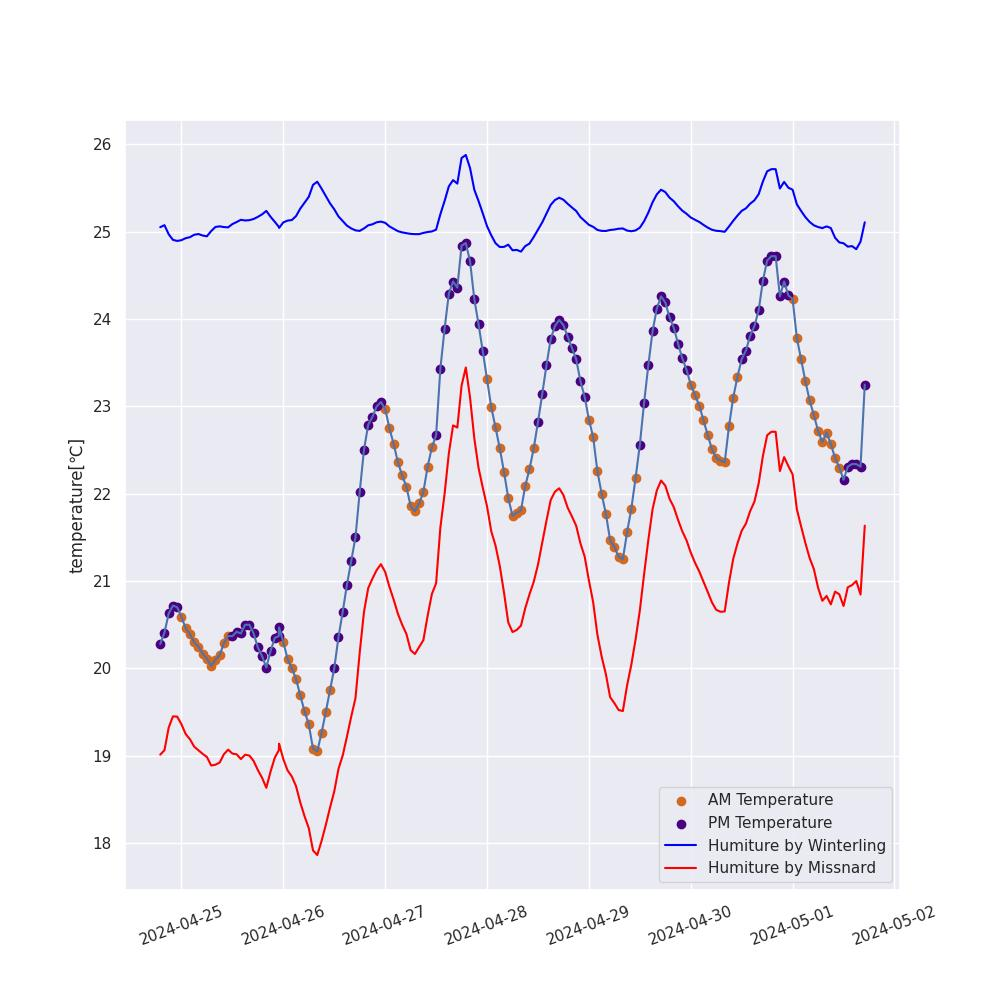
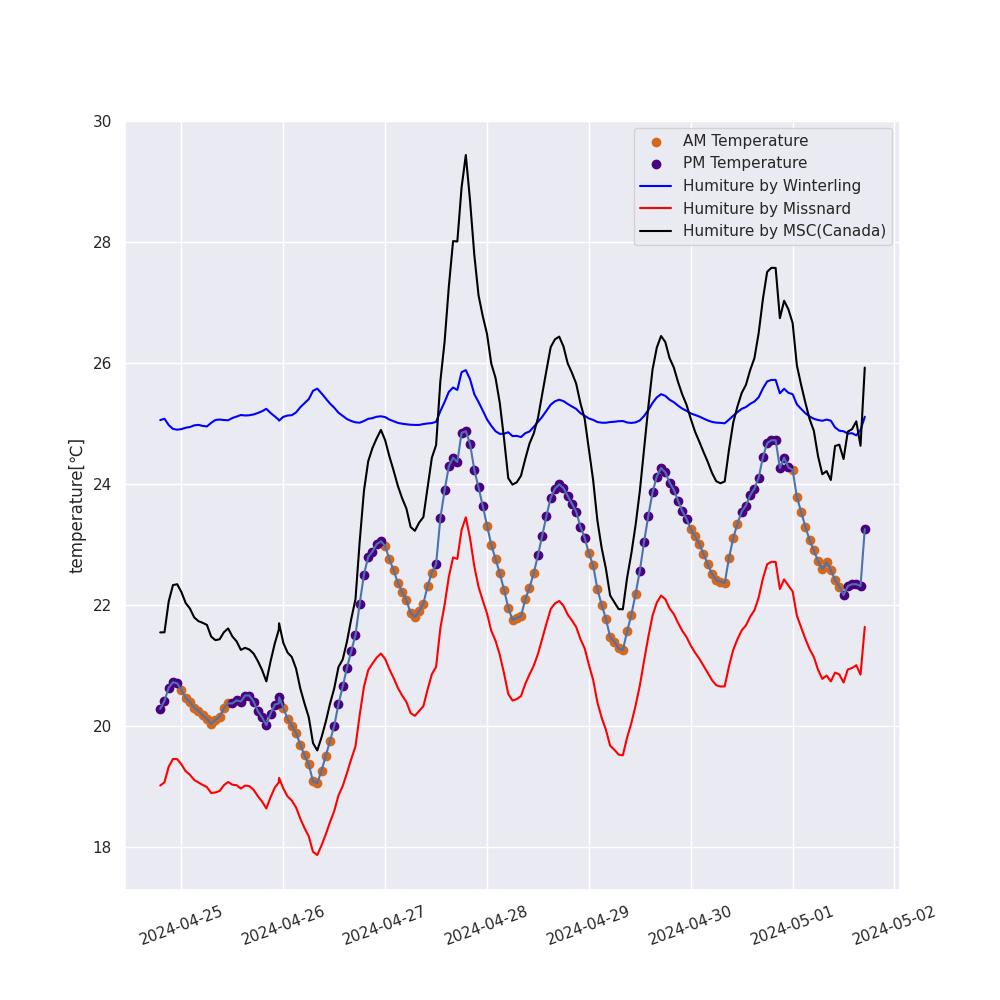
Update: 2024-05-01 17:18:35

diff --git a/create_plot.py b/create_plot.py
@@ -36,6 +36,26 @@ def calc_winterling_index(T, H):
 		- 0.00000199 * T**2 * H**2)
 	return HI
 
+def calc_dew_point(T, RH):
+	# 露点温度の算出
+	b = 17.62
+	c = 243.12
+	gamma = (b * T / (c + T)) + np.log(RH / 100.0)
+	T_dew = (c * gamma) / (b - gamma)
+	return T_dew
+
+def calc_saturation_vapor_pressure(T_dew):
+	# 露点温度を引数にして水蒸気圧を算出
+	e = 6.1078 * 10 ** (7.5 * T_dew /(237.3 + T_dew))
+	return e
+
+def calc_humidex(T, e):
+	# カナダ気象局(MSC)
+	humidex = T + 0.5555 * (e - 10)
+	#humidex = np.floor(humidex)
+	#humidex = humidex.astype(int)
+	return humidex
+
 def fetch_recent_data(db_path, table_name, column_name):
 	
 	# SQLiteデータベースに接続
@@ -69,6 +89,9 @@ sns.set()
 
 # 気温と体感温度グラフの作成
 tempture = fetch_recent_data(db_path, table_name, column_tempture)
+temperature_avg = np.array(tempture)
+temperature_avg = np.mean(temperature_avg)
+print(f"実測温度：{np.floor(temperature_avg)}")
 humidity = fetch_recent_data(db_path, table_name, column_humidity)
 new_timestamp = []
 timestamp = fetch_recent_data(db_path, table_name, column_timestamp)
@@ -110,7 +133,7 @@ HI = calc_winterling_index(T, H)
 HI = fahrenheit_to_celsius(HI)
 plt.plot(x, HI, color='blue', label='Humiture by Winterling')
 HI_avg = str(int(np.mean(HI)))
-print(f"体感温度1：{HI_avg}")
+print(f"Winterling：{HI_avg}")
 
 # 体感温度 Missnard
 T = np.array(tempture)
@@ -118,7 +141,21 @@ H = np.array(humidity)
 M = calc_missnard_index(T, H)	
 plt.plot(x, M, color='red', label='Humiture by Missnard')
 M_avg = str(int(np.mean(M)))
-print(f"体感温度2：{M_avg}")
+print(f"Missnard：{M_avg}")
+
+# 体感温度 カナダ気象局
+T = np.array(tempture)
+RH = np.array(humidity)
+dew_point = calc_dew_point(T, RH)
+# print(f"露点温度：{dew_point}")
+e = calc_saturation_vapor_pressure(dew_point)
+# print(f"水蒸気圧：{e}")
+humidex = calc_humidex(T, e)
+# print(f"体感温度：{humidex}")
+humidex_avg = np.mean(humidex)
+humidex_avg = np.floor(humidex_avg)
+plt.plot(x, humidex, color='black', label='Humiture by MSC(Canada)')
+print(f"Canada：{humidex_avg}")
 
 #  グラフ最終処理
 plt.legend()
